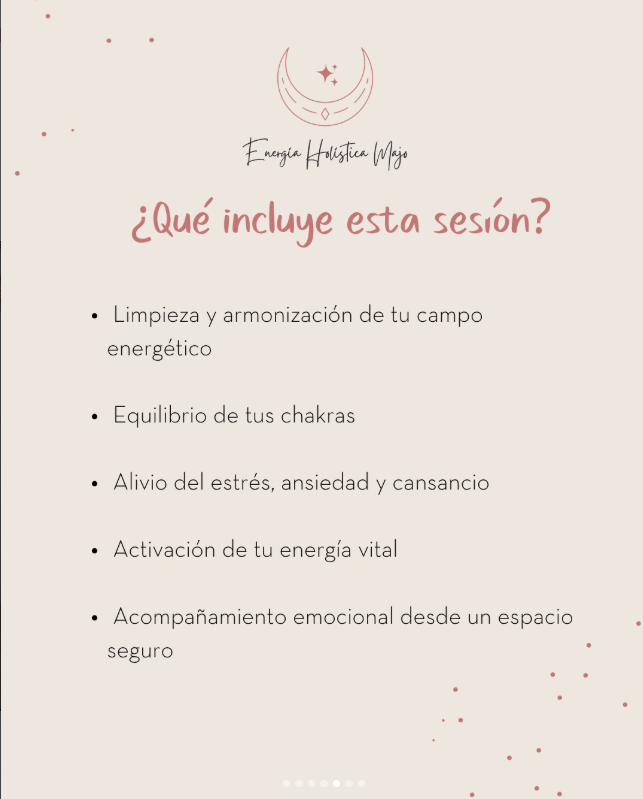
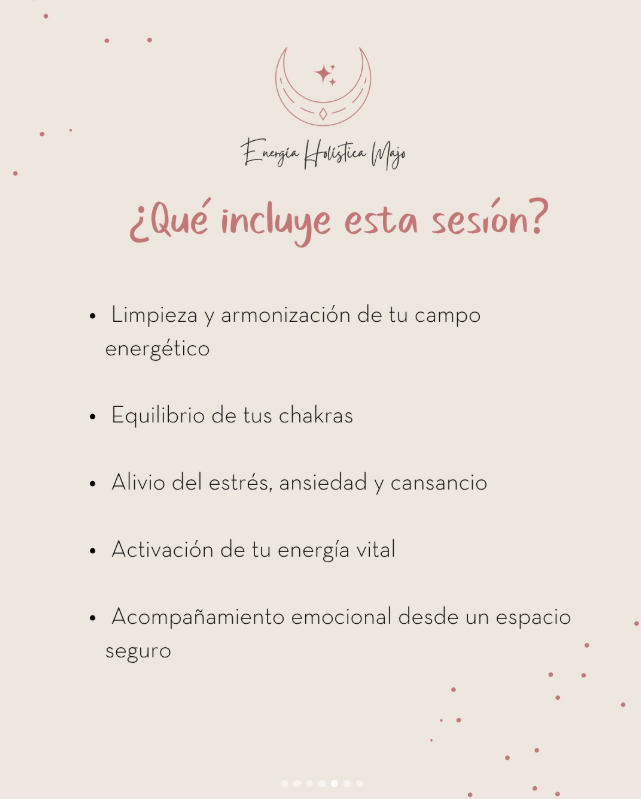
fix: agrandar carrusel y corregir línea negra en última imagen reiki
- Carrusel más grande (420px desktop, 340px mobile) con max-height 60vh/50vh
- Recortar 2px del borde izquierdo de 05-incluye.png donde quedó una
  línea oscura del corte original

diff --git a/index.html b/index.html
@@ -848,8 +848,8 @@
 
     .carousel-stage {
       position: relative;
-      width: min(340px, 80%);
-      max-height: 52vh;
+      width: min(420px, 90%);
+      max-height: 60vh;
       margin: 0 auto;
       aspect-ratio: 639 / 793;
       border-radius: 20px;
@@ -944,7 +944,7 @@
       .service-modal { padding: 16px; }
       .service-detail { padding: 24px 20px 28px; }
       .detail-title { font-size: 1.5rem; }
-      .carousel-stage { width: min(300px, 85%); max-height: 44vh; }
+      .carousel-stage { width: min(340px, 90%); max-height: 50vh; }
       .carousel-arrow { width: 36px; height: 36px; font-size: 1.2rem; }
       .carousel-arrow.prev { left: 6px; }
       .carousel-arrow.next { right: 6px; }
